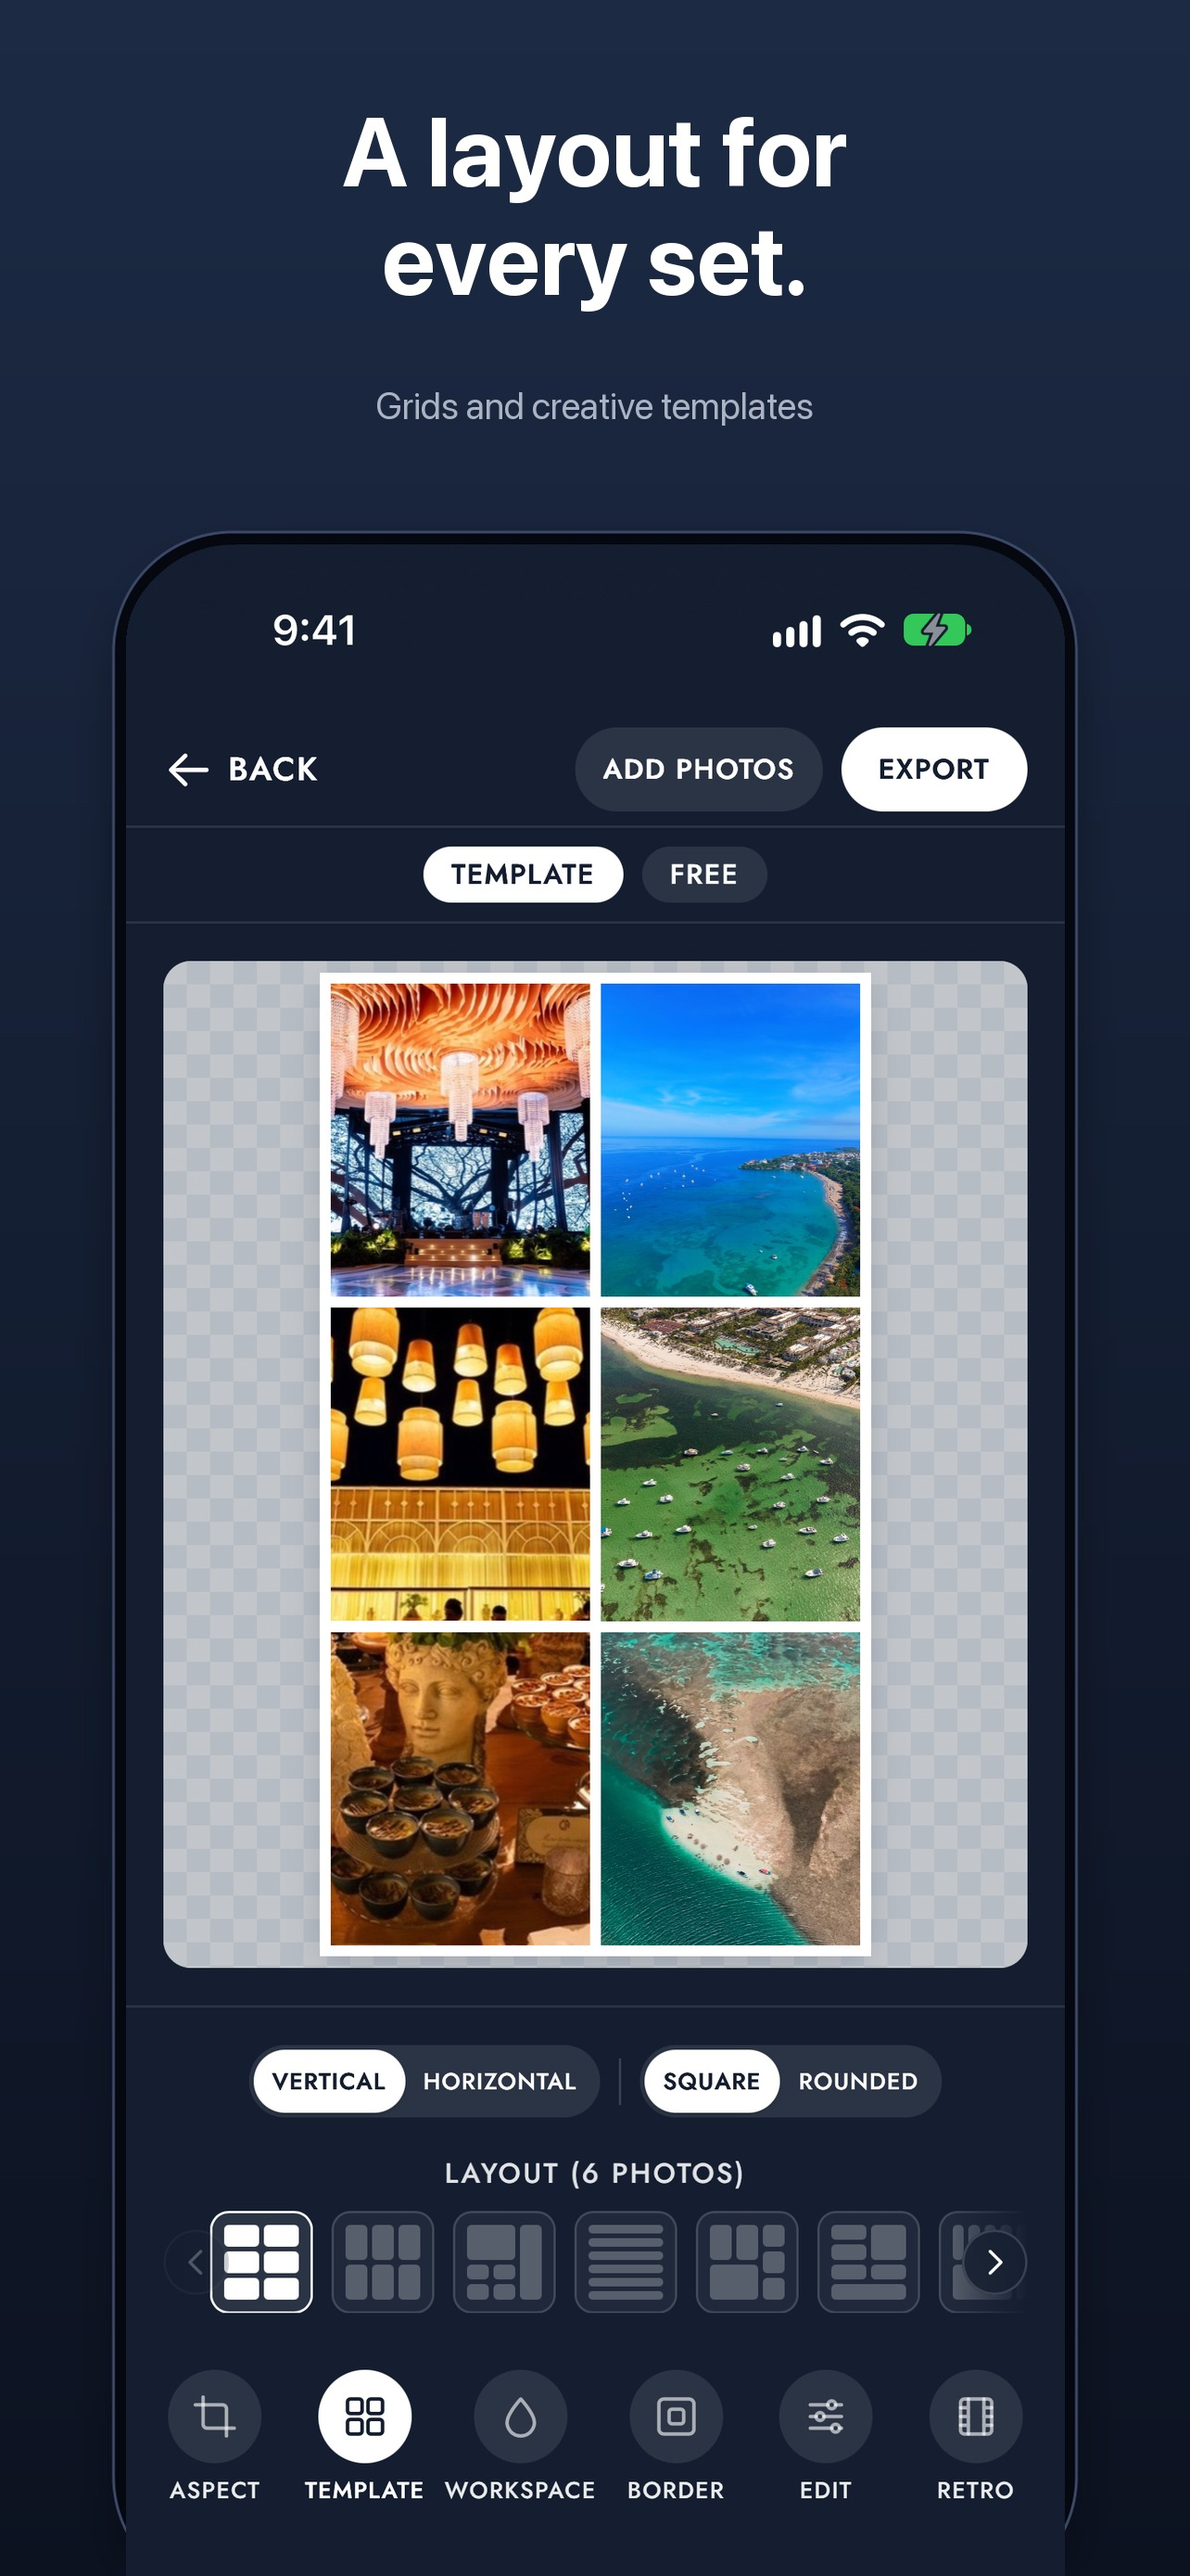
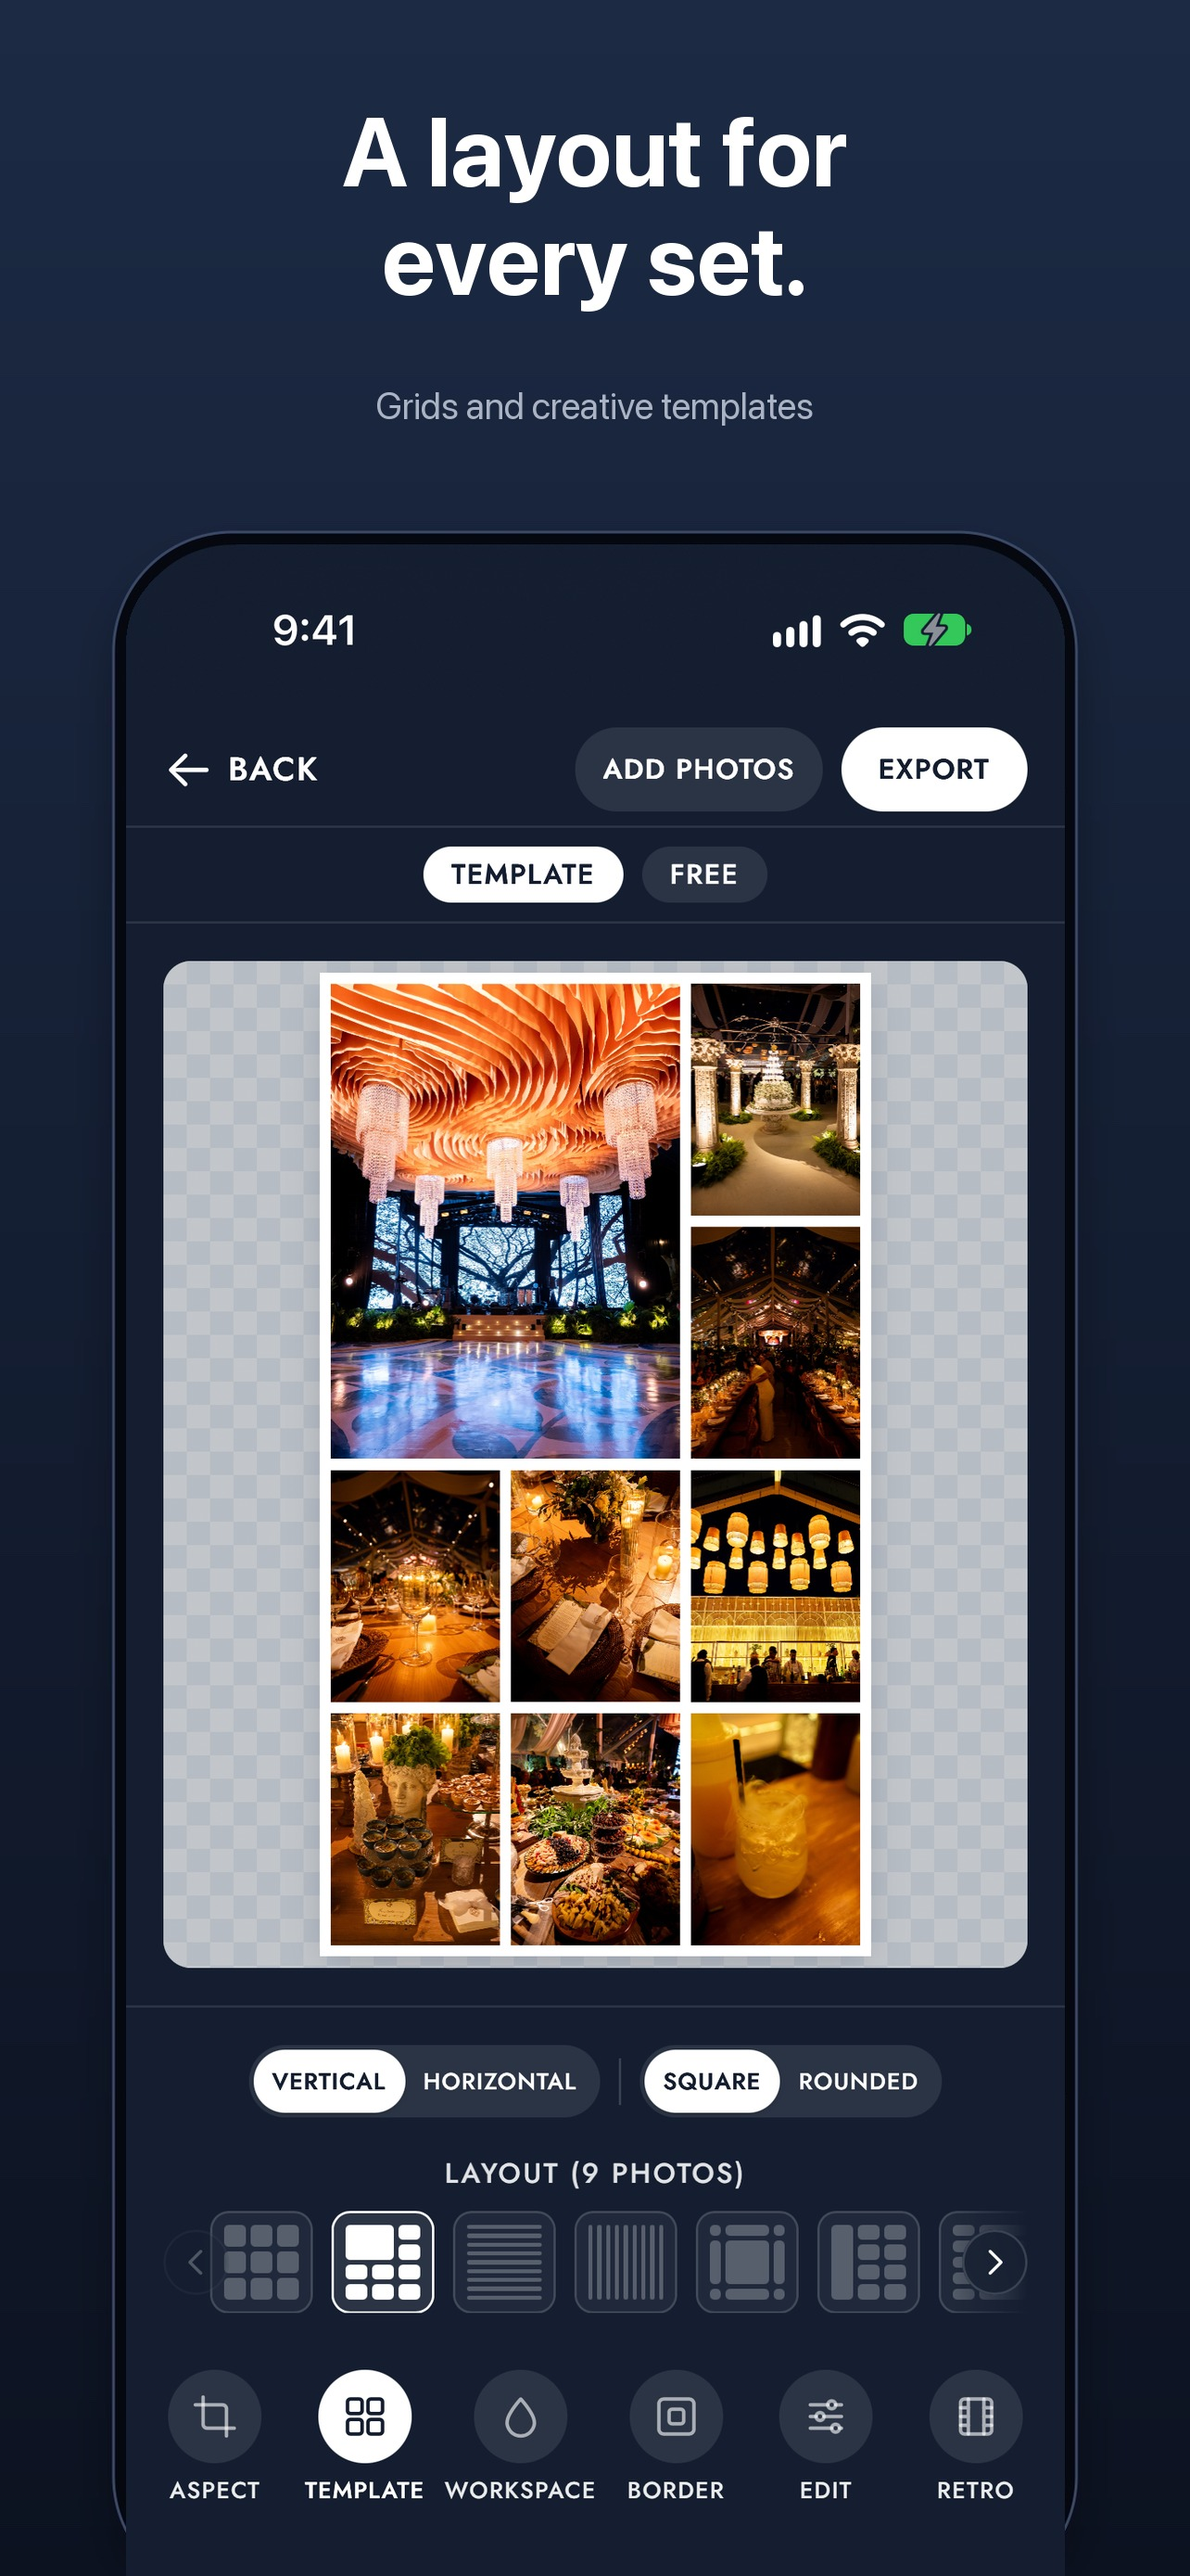
Tour and store screenshots: boat and sandbar, wedding collage, bay Retro, thinner border breathe

diff --git a/src/components/WelcomeTour.tsx b/src/components/WelcomeTour.tsx
@@ -26,8 +26,8 @@ function Print({ name, className = '', style, pad = '5%' }: { name: string; clas
 /** Logo over a fan of prints that drift gently. */
 function WelcomeArt() {
   const prints = [
-    { name: 'island', rotate: -14, x: '-58%', delay: '0s' },
-    { name: 'cliff', rotate: 13, x: '58%', delay: '-1.6s' },
+    { name: 'boat', rotate: -14, x: '-58%', delay: '0s' },
+    { name: 'sandbar', rotate: 13, x: '58%', delay: '-1.6s' },
     { name: 'resort', rotate: -2, x: '0%', delay: '-0.8s' },
   ]
   return (
@@ -68,24 +68,18 @@ function BorderArt() {
   )
 }
 
-/** A template collage of real event photos, cells easing into place. */
+/** A tall template collage of real event photos, cells easing into place. */
 function CollageArt() {
-  const cell = 'tour-pop overflow-hidden'
+  // One big cell top-left, two beside it, then two rows of three.
+  const cells = ['col-span-2 row-span-2', '', '', '', '', '', '', '', '']
   return (
     <div className="flex h-full w-full items-center justify-center">
-      <div className="grid aspect-[4/5] w-[66%] grid-cols-2 grid-rows-3 gap-[2.5%] bg-white p-[2.5%] shadow-2xl shadow-black/50">
-        <div className={`${cell} row-span-2`} style={{ animationDelay: '0s' }}>
-          <Img name="decor-hall" />
-        </div>
-        <div className={cell} style={{ animationDelay: '0.12s' }}>
-          <Img name="decor-lamps" />
-        </div>
-        <div className={cell} style={{ animationDelay: '0.24s' }}>
-          <Img name="bay" />
-        </div>
-        <div className={`${cell} col-span-2`} style={{ animationDelay: '0.36s' }}>
-          <Img name="sandbar" />
-        </div>
+      <div className="grid aspect-[9/16] h-[92%] grid-cols-3 grid-rows-4 gap-[1%] bg-white p-[1%] shadow-2xl shadow-black/50">
+        {cells.map((span, i) => (
+          <div key={i} className={`tour-pop overflow-hidden ${span}`} style={{ animationDelay: `${i * 0.08}s` }}>
+            <Img name={`collage-${i + 1}`} />
+          </div>
+        ))}
       </div>
     </div>
   )
@@ -160,7 +154,7 @@ function DetailArt() {
 /** The same photo in three Retro styles, fanned out like prints on a table. */
 function RetroArt() {
   const looks = [
-    { name: 'retro-atardecer', rotate: -12, x: '-62%' },
+    { name: 'retro-vivido', rotate: -12, x: '-62%' },
     { name: 'retro-cruzado', rotate: 12, x: '62%' },
     { name: 'retro-plata', rotate: 0, x: '0%' },
   ]
@@ -197,7 +191,7 @@ function StoryArt() {
               className={`flex aspect-[9/16] w-full items-center justify-center rounded-lg ${withBg ? 'shadow-2xl shadow-black/50 ring-1 ring-white/10' : ''}`}
               style={withBg ? { backgroundColor: SKY } : undefined}
             >
-              <Print name="island" pad="4%" className="aspect-[4/5] w-[91%]" />
+              <Print name="sandbar" pad="4%" className="aspect-[4/5] w-[91%]" />
             </div>
             <span
               className={`font-label rounded-full px-2.5 py-1 text-[10px] font-semibold uppercase tracking-wide ${
@@ -227,7 +221,7 @@ function ExportArt() {
   const tr = useTranslation()
   return (
     <div className="flex h-full w-full flex-col items-center justify-center gap-5">
-      <Print name="bay" className="aspect-[4/5] w-[58%]" />
+      <Print name="boat" className="aspect-[4/5] w-[58%]" />
       <div className="flex gap-1.5">
         {[tr.quality.native.label, tr.quality.high.label, tr.quality.web.label].map((q, i) => (
           <span

diff --git a/src/lib/shots.ts b/src/lib/shots.ts
@@ -77,7 +77,12 @@ async function run(scene: (typeof SCENES)[number]) {
   if (scene === 'layouts') {
     (await waitFor(() => homeButton('Collage'))).click()
     await sleep(900)
-    await upload(['decorA0', 'bay', 'decorA1', 'resort', 'decorA3', 'sandbar'], true)
+    // The event collage from the welcome tour: the big ceiling shot, the
+    // cake, the tent, the table and the buffet, laid out tall.
+    await upload(['wedding1', 'wedding2', 'wedding3', 'wedding6', 'wedding9', 'wedding4', 'wedding5', 'wedding7', 'wedding8'], true)
+    editor().setCollageTemplateId('grid-9-big')
+    editor().setCollageAspectRatio('9-16')
+    editor().setCollageOrientation('vertical')
     await tool('Template')
     return
   }
@@ -86,14 +91,14 @@ async function run(scene: (typeof SCENES)[number]) {
   await sleep(900)
 
   if (scene === 'batch') {
-    await upload(['resort', 'island', 'cliff', 'bay'], true)
+    await upload(['resort', 'boat', 'sandbar', 'island'], true)
     await tool('4:5')
     return
   }
 
-  await upload([{ border: 'resort', edit: 'island', retro: 'cliff', story: 'island' }[scene] ?? 'resort'], false)
-  // The tall resort photo reads best framed 4:5 rather than as-shot.
-  if (scene === 'border') await tool('4:5')
+  await upload([{ border: 'resort', edit: 'boat', retro: 'bay', story: 'sandbar' }[scene] ?? 'resort'], false)
+  // The tall photos read best framed 4:5 rather than as-shot.
+  if (scene === 'border' || scene === 'story' || scene === 'retro') await tool('4:5')
 
   if (scene === 'edit') {
     const id = editor().border.photoId!
@@ -121,7 +126,8 @@ async function run(scene: (typeof SCENES)[number]) {
 
   if (scene === 'retro') {
     await tool('Retro')
-    await tool('Sunset')
+    await tool('Silver 400')
+    button('Silver 400')?.scrollIntoView({ inline: 'center' })
     setRange('Intensity', 0.9)
     return
   }

diff --git a/src/index.css b/src/index.css
@@ -179,10 +179,10 @@ textarea {
 @keyframes tour-breathe {
   0%,
   100% {
-    padding: 7%;
+    padding: 2.5%;
   }
   50% {
-    padding: 12%;
+    padding: 6.5%;
   }
 }
 
